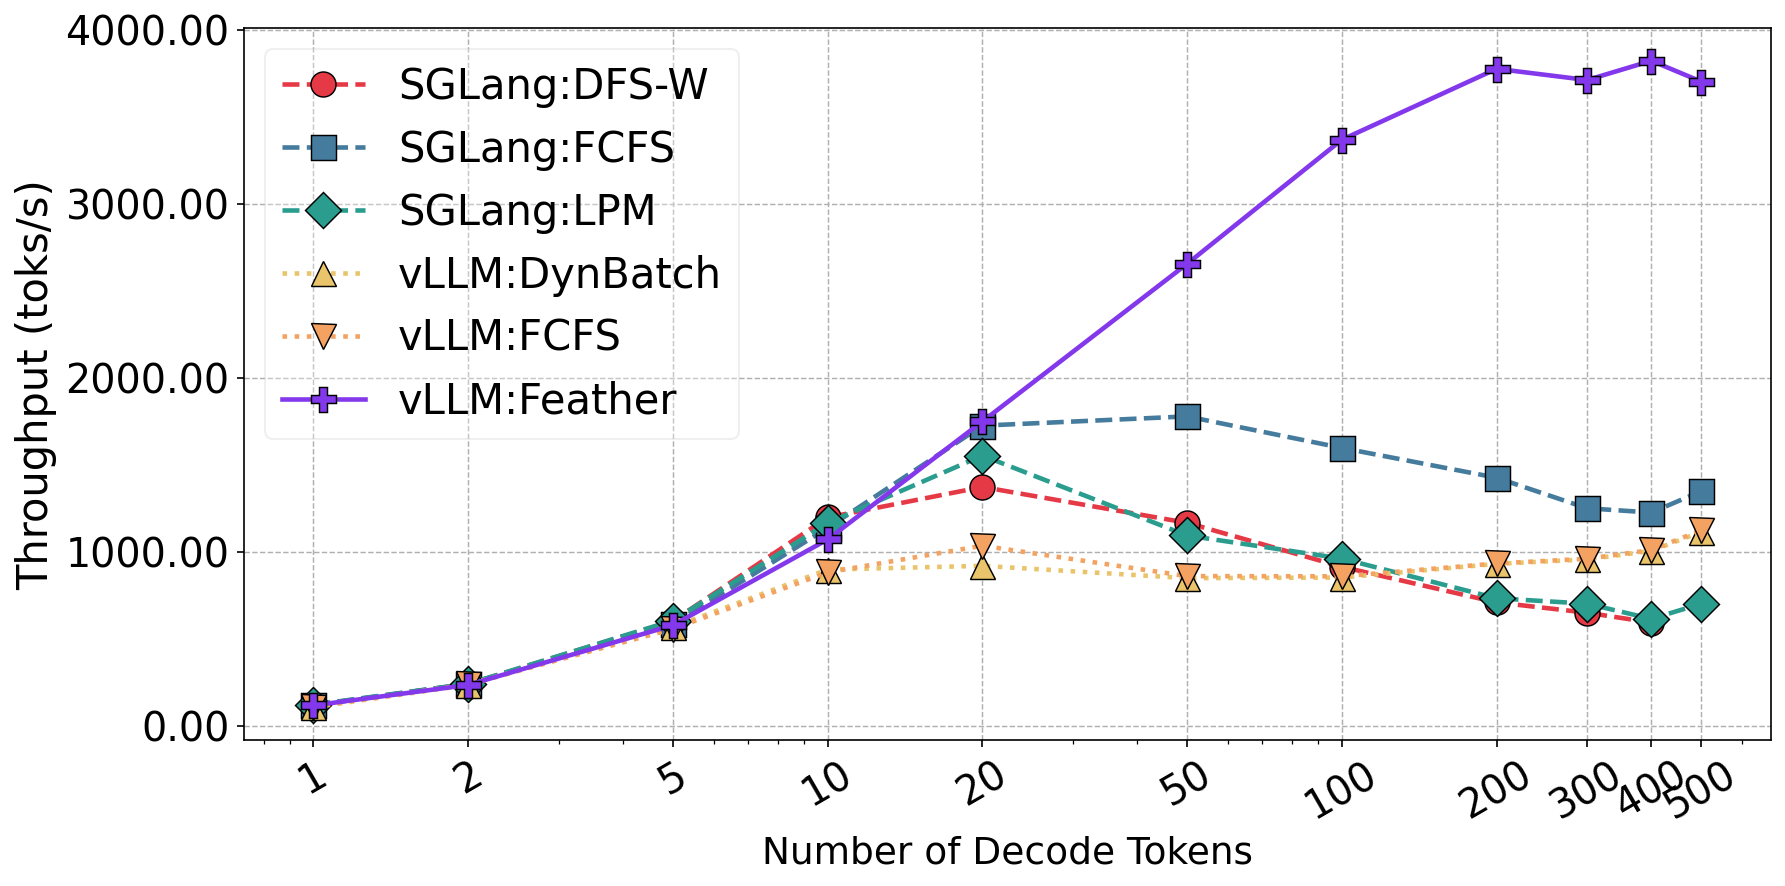
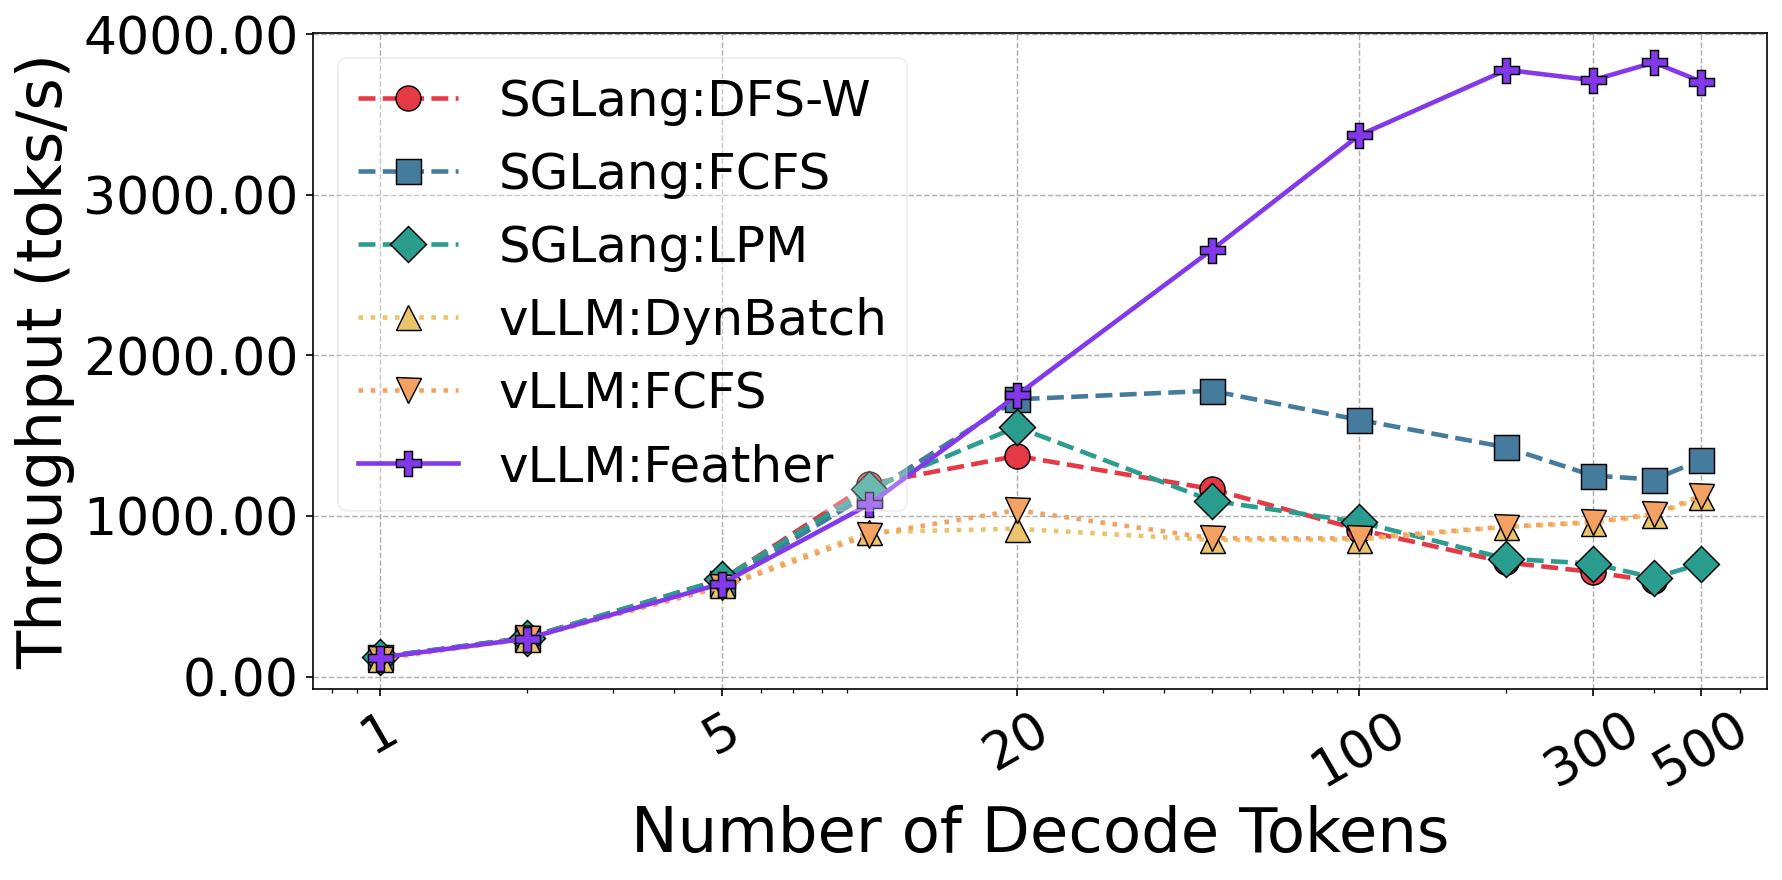
dec

diff --git a/code/vllm/decode_tokens_logs/plot.py b/code/vllm/decode_tokens_logs/plot.py
@@ -4,6 +4,11 @@ Parse decode_tokens_logs/ and generate 3 plots:
   1. Throughput vs Decode Tokens
   2. Avg Running Batch Size vs Decode Tokens
   3. Avg Consecutive Time Difference vs Decode Tokens
+
+Changes:
+  - avg_batch and avg_diff are extrapolated leftward from the first
+    available value (flat extension) for points that have no data.
+  - X-axis ticks are thinned to avoid clutter.
 """
 
 import os
@@ -138,6 +143,17 @@ LINESTYLES = ["--", "--", "--", ":", ":", "-"]
 # collect all token counts
 all_tokens = sorted({tok for policy in data.values() for tok in policy})
 
+# Thin x-axis ticks: keep at most ~6 evenly-spaced ticks on a log scale
+def select_display_ticks(tokens, max_ticks=6):
+    if len(tokens) <= max_ticks:
+        return tokens
+    # Pick indices evenly spaced in log space
+    log_vals = np.log10(tokens)
+    indices = np.round(np.linspace(0, len(tokens) - 1, max_ticks)).astype(int)
+    return [tokens[i] for i in sorted(set(indices))]
+
+display_ticks = select_display_ticks(all_tokens)
+
 
 # ── Plot function ───────────────────────────────────────────────────────────
 def make_plot(metric_key, ylabel, title, outpath):
@@ -154,11 +170,32 @@ def make_plot(metric_key, ylabel, title, outpath):
         xs = []
         ys = []
 
+        # For avg_batch / avg_diff: find the first token where a real value exists
+        # so we can extrapolate leftward (flat extension).
+        first_real_tok = None
+        first_real_val = None
+        if metric_key in ("avg_batch", "avg_diff"):
+            for tok in all_tokens:
+                v = data[label].get(tok, {}).get(metric_key)
+                if v is not None:
+                    first_real_tok = tok
+                    first_real_val = round(v, 4) if isinstance(v, float) else v
+                    break
+
         for tok in all_tokens:
             v = data[label].get(tok, {}).get(metric_key)
 
             if v is not None and isinstance(v, float):
                 v = round(v, 4)
+
+            # Leftward extrapolation: fill missing points before first real value
+            if (
+                v is None
+                and metric_key in ("avg_batch", "avg_diff")
+                and first_real_tok is not None
+                and tok < first_real_tok
+            ):
+                v = first_real_val
 
             xs.append(tok)
             ys.append(v if v is not None else np.nan)
@@ -177,18 +214,19 @@ def make_plot(metric_key, ylabel, title, outpath):
         )
 
     ax.set_xscale("log")
-    ax.set_xlabel("Number of Decode Tokens", fontsize=18)
-    ax.set_ylabel(ylabel, fontsize=20)
+    ax.set_xlabel("Number of Decode Tokens", fontsize=30)
+    ax.set_ylabel(ylabel, fontsize=30)
 
-    ax.set_xticks(all_tokens)
-    ax.set_xticklabels(all_tokens, rotation=30)
+    # Use thinned ticks to avoid clutter
+    ax.set_xticks(display_ticks)
+    ax.set_xticklabels(display_ticks, rotation=30)
     ax.get_xaxis().set_major_formatter(ticker.ScalarFormatter())
 
-    ax.tick_params(axis="both", labelsize=19)
+    ax.tick_params(axis="both", labelsize=25)
     ax.yaxis.set_major_formatter(ticker.FormatStrFormatter('%.2f'))
 
     if metric_key == "throughput":
-        ax.legend(fontsize=20, framealpha=0.3, ncol=1)
+        ax.legend(fontsize=24, framealpha=0.3, ncol=1)
 
     ax.grid(True, linewidth=0.7, linestyle="--")
 
@@ -219,14 +257,14 @@ make_plot(
 
 make_plot(
     "avg_batch",
-    "Avg Running Batch Size",
-    "Average Running Batch Size vs Decode Tokens",
+    "Avg Batch Size",
+    "Average Batch Size vs Decode Tokens",
     os.path.join(OUT, "avg_batch_vs_tok.png")
 )
 
 make_plot(
     "avg_diff",
-    "Time Between Tokens (s)",
+    "TBT (s)",
     "Average Consecutive Scheduler Timestamp Diff vs Decode Tokens",
     os.path.join(OUT, "avg_timediff_vs_tok.png")
 )
